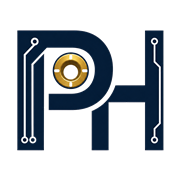
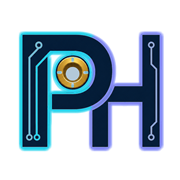
Polish PinHub header branding

Changed region(s): [[0.0833, 0.1667, 0.9167, 0.8611]]

diff --git a/src/components/PinHubApp.tsx b/src/components/PinHubApp.tsx
@@ -80,29 +80,41 @@ export function PinHubApp() {
 
   return (
     <main className="min-h-screen">
-      <header className="border-b border-white/10 bg-black/20">
-        <div className="mx-auto flex max-w-[1560px] flex-col gap-6 px-4 py-5 sm:px-6 lg:px-8">
+      <header className="relative overflow-hidden border-b border-cyan-200/10 bg-[#070a0d]">
+        <div
+          className="pointer-events-none absolute inset-0 opacity-90"
+          aria-hidden="true"
+        >
+          <div className="absolute inset-x-0 top-0 h-px bg-gradient-to-r from-transparent via-cyan-300/70 to-transparent" />
+          <div className="absolute inset-0 bg-[linear-gradient(110deg,rgba(34,211,238,0.12),rgba(7,10,13,0)_34%),linear-gradient(180deg,rgba(250,204,21,0.055),rgba(7,10,13,0)_42%)]" />
+          <div className="absolute inset-x-0 bottom-0 h-16 bg-[linear-gradient(180deg,rgba(7,10,13,0),rgba(7,10,13,0.92))]" />
+        </div>
+        <div className="relative mx-auto flex max-w-[1560px] flex-col gap-6 px-4 py-5 sm:px-6 lg:px-8">
           <div className="flex flex-col gap-4 lg:flex-row lg:items-end lg:justify-between">
             <div>
-              <div className="flex items-center gap-4 sm:gap-5">
-                <div className="relative h-20 w-24 shrink-0 sm:h-24 sm:w-32">
+              <div className="flex items-center gap-5 sm:gap-7">
+                <div className="relative h-24 w-28 shrink-0 sm:h-28 sm:w-36">
                   <Image
                     src="/pinhub-logo.png"
                     alt=""
                     fill
-                    sizes="(min-width: 640px) 128px, 96px"
-                    className="object-contain drop-shadow-[0_0_18px_rgba(34,211,238,0.16)]"
+                    sizes="(min-width: 640px) 144px, 112px"
+                    className="object-contain"
                     priority
                     aria-hidden="true"
                   />
                 </div>
                 <div>
-                  <h1 className="text-5xl font-semibold leading-none tracking-normal text-white sm:text-6xl">
+                  <h1 className="brand-title bg-gradient-to-r from-white via-cyan-200 to-amber-200 bg-clip-text text-5xl leading-none tracking-normal text-transparent drop-shadow-[0_0_28px_rgba(34,211,238,0.18)] sm:text-7xl">
                     PinHub
                   </h1>
+                  <div
+                    className="mt-3 h-px w-full max-w-72 bg-gradient-to-r from-cyan-300/80 via-blue-400/60 to-amber-300/70"
+                    aria-hidden="true"
+                  />
                 </div>
               </div>
-              <p className="mt-4 max-w-3xl text-sm leading-6 text-zinc-400 sm:text-base">
+              <p className="mt-3 max-w-3xl text-sm leading-6 text-slate-300 sm:text-base">
                 Search SBCs, microcontrollers, and development boards by vendor,
                 interface, warning, and documentation source.
               </p>

diff --git a/src/app/layout.tsx b/src/app/layout.tsx
@@ -1,5 +1,5 @@
 import type { Metadata } from "next";
-import { Geist, Geist_Mono } from "next/font/google";
+import { Audiowide, Geist, Geist_Mono } from "next/font/google";
 import "./globals.css";
 
 const geistSans = Geist({
@@ -10,6 +10,12 @@ const geistSans = Geist({
 const geistMono = Geist_Mono({
   variable: "--font-geist-mono",
   subsets: ["latin"],
+});
+
+const audiowide = Audiowide({
+  variable: "--font-display",
+  subsets: ["latin"],
+  weight: "400",
 });
 
 export const metadata: Metadata = {
@@ -28,7 +34,10 @@ export default function RootLayout({
   children: React.ReactNode;
 }>) {
   return (
-    <html lang="en" className={`${geistSans.variable} ${geistMono.variable}`}>
+    <html
+      lang="en"
+      className={`${geistSans.variable} ${geistMono.variable} ${audiowide.variable}`}
+    >
       <body>{children}</body>
     </html>
   );

diff --git a/src/app/globals.css b/src/app/globals.css
@@ -4,6 +4,7 @@
   --font-sans: "Geist", "Geist Fallback", ui-sans-serif, system-ui, sans-serif;
   --font-mono: "Geist Mono", "Geist Mono Fallback", ui-monospace, "SF Mono",
     "Cascadia Code", "Roboto Mono", monospace;
+  --font-display: "Audiowide", "Audiowide Fallback", var(--font-sans);
 }
 
 :root {
@@ -28,6 +29,10 @@ body {
     var(--background);
   color: var(--foreground);
   font-family: var(--font-sans);
+}
+
+.brand-title {
+  font-family: var(--font-display);
 }
 
 button,
